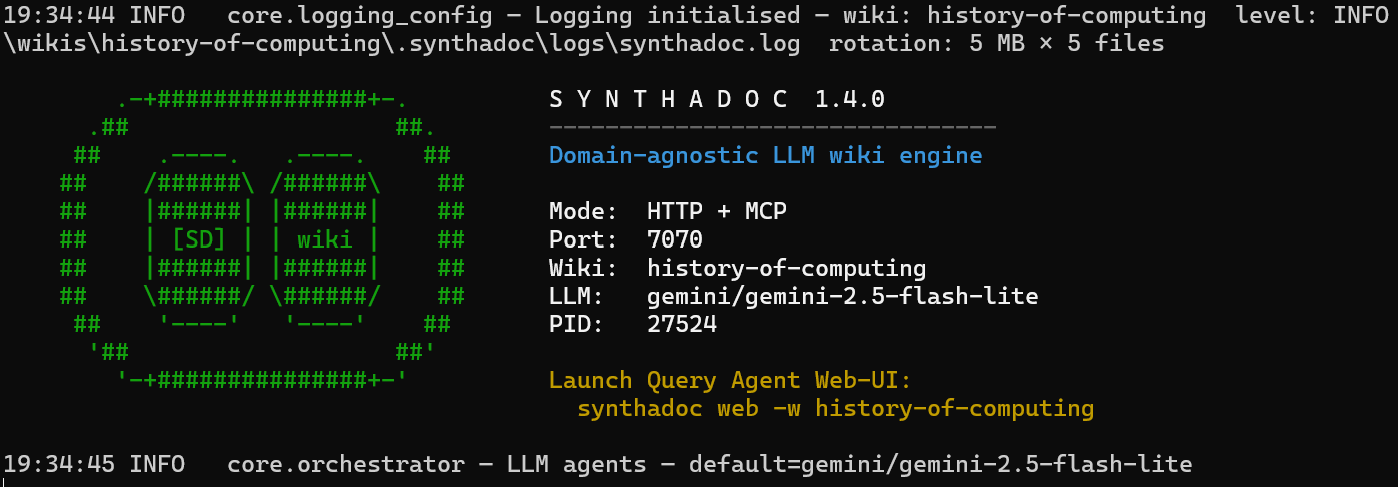
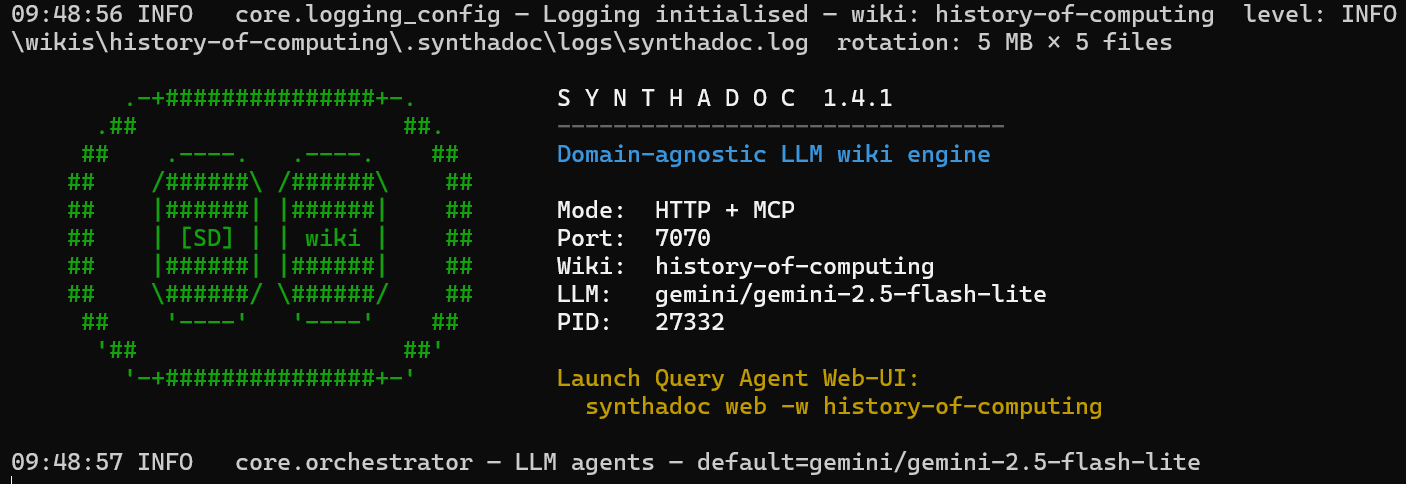
[v1.4.1] release prep (#454)
* [v1.4.1] release prep

Bump version to 1.4.1. Add Appendix A entries for v1.4.0 and v1.4.1
in design.md. Sync Obsidian plugin manifest and PyPI readme.

* update synthadoc-serve.png

diff --git a/docs/design.md b/docs/design.md
@@ -1,6 +1,6 @@
 # Synthadoc — Design Document
 
-**Version:** 1.4.0
+**Version:** 1.4.1
 **Audience:** Product users who want to understand how the system works; developers adding features, skills, and plugins.
 
 **Document owners:** Paul Chen, William Johnason
@@ -4418,6 +4418,29 @@ The coordinator's own `_wiki_epoch` is passed to `CacheManager.set_query` for th
 ---
 
 ## Appendix A — Release Feature Index
+
+### v1.4.1
+
+- **DeepSeek thinking config fix** — two provider bugs corrected: (1) `_build_extra_body()` was routing DeepSeek through the Qwen branch, sending `{enable_thinking: false}` which DeepSeek's API ignores; DeepSeek now uses `{thinking: {type: disabled}}` like all non-Qwen providers. (2) When a reasoning model returns content that is entirely `<think>...</think>` blocks, the previous code silently used raw `reasoning_content` as the wiki page body, writing chain-of-thought text into the knowledge base; for the DeepSeek provider this now raises `ValueError` so the ingest job fails visibly rather than storing junk. MiniMax's legitimate reasoning-as-answer path (where the prose answer is intentionally in the reasoning side-channel) is unaffected — the guard is scoped to `provider == "deepseek"` only.
+- **Cross-wiki peer base URL** — peer URLs in the cross-wiki coordinator hardcoded `127.0.0.1`, silently treating any remote peer as unreachable. Fixed to read an optional `host` field from the registry entry (`wikis.json`); entries without `host` continue to use loopback. A `LOOPBACK_HOST` constant introduced in `_wiki.py` consolidates all six client-side URL constructors so future changes apply in one place.
+- **Cross-wiki no_cache parameter** — the `no_cache` cache-bypass flag was accepted by the CLI but not forwarded through the stream endpoint or WebUI, so cache bypass had no effect for cross-wiki queries. The flag is now threaded through `GET /cross-wiki/query/stream` and the React `useQueryStream` hook.
+- **Real wiki names in wikis_querying SSE event** — the `wikis_querying` server-sent event was emitting placeholder identifiers instead of the registered display names of the wikis being queried; it now emits the actual names as registered in the routing table.
+- **MissingApiKeyError for missing provider API keys** — a missing API key previously called `cli_error()` which raises `typer.Exit(1)`; when raised inside a background job worker, `str(typer.Exit(1)) == "1"` produced the unhelpful "Lint dead: 1" message in the Obsidian UI. Replaced with `MissingApiKeyError(RuntimeError)` carrying the env-var name, provider name, and signup URL. The orchestrator treats `MissingApiKeyError` as a permanent failure (no retries — retrying a missing key never helps); direct HTTP endpoints return HTTP 401.
+- **OKF v0.2 type mapping** — the hardcoded `"concept"` fallback for all page types replaced with a proper `_OKF_TYPE_MAP`: `concept` / `event` → `article`; `person` / `organization` / `technology` / `location` / `product` → `reference`; unknown types fall back to `article`.
+- **Cross-wiki merge sort defensive access** — `_merge_results` raised `KeyError` when a peer wiki response omitted the `score` field (older peer versions or test stubs). Changed to `.get("score", 0)` so such results sort to the end rather than crashing the entire cross-wiki query.
+- **Hook subprocess race condition** — test polling loops waited for output file existence but not for non-empty content; on Windows the subprocess creates the file on `open(..., "w")` before writing, causing a `JSONDecodeError` on an empty file. Polling now checks `st_size > 0` in addition to existence.
+- **MiniMax pricing table updated** — model pricing table refreshed; `MiniMax-M2.7` entry replaced with `MiniMax-M3` as the current recommended MiniMax model.
+
+### v1.4.0
+
+- **OKF v0.2 Export** — `synthadoc export --format okf` produces a distributable bundle: one Markdown file per wiki page with v0.2 YAML frontmatter (`generated.{by,at}`, `sources`, `verified`, `stale_after`, `synthadoc_lifecycle`); `index.md` manifest grouped by knowledge type; `log.md` plain-text changelog; wikilinks converted to relative paths. Active and contradicted pages exported by default; drafts, stale, and archived excluded. Lifecycle states map to OKF status: `active` → `stable`, `contradicted`/`draft` → `draft`, `stale`/`archived` → `deprecated`. Any OKF-aware tool can consume the bundle without running Synthadoc.
+- **Cross-Wiki Queries** — `synthadoc query --cross-wiki` distributes a single question across all registered running wikis in parallel, synthesizes a unified answer, and qualifies citations as `[[wiki-name::PageTitle]]`. The coordinator wiki picks relevant peers via LLM routing against each wiki's `purpose.md`; results are merged with source-prefix normalization before synthesis. Configurable via an optional routing table (`synthadoc cross-wiki routing init`). Per-peer epoch cache for independent cache invalidation; CJK fan-out translation for cross-language retrieval; workflow lint enforcement for routing validation. Recent cross-wiki runs persist in the web UI history. See [§40 Cross-Wiki Queries](#40-cross-wiki-queries-v140).
+- **MiniMax-M3 compatibility** — corrected non-standard response envelope parsing that caused silent failures with MiniMax-M3.
+- **Orphan resolver robustness** — gracefully skips stale references when pages are deleted between list generation and execution, preventing mid-workflow crashes.
+- **Workflow status chips** — intermediate states (`confirming`, `ingesting`, `linting`) now reflected in real time in the web UI chip rather than staying blank until completion.
+- **Server shutdown noise** — `synthadoc stop --all` no longer logs a `Task exception was never retrieved` stack trace; shutdown uses `server.should_exit = True` via a deferred async task instead of `raise SystemExit(0)` inside a running coroutine.
+- **Status port fallback** — `synthadoc status --all` now scans well-known ports when the PID file is absent, recovering status for servers started outside the normal flow.
+- **Stale-slug regex tightened** — `_STALE_SLUG_RE` now requires a mandatory list marker (`- `) to prevent false-positive stale-page suggestions on prose that happens to match the slug pattern.
 
 ### v1.3.5
 

diff --git a/README-pypi.md b/README-pypi.md
@@ -14,7 +14,7 @@
       '-+###############+-'
 
        S Y N T H A D O C
-    Community Edition  v1.4.0
+    Community Edition  v1.4.1
   ────────────────────────────────
   Domain-agnostic LLM wiki engine
 ```
@@ -31,10 +31,10 @@
 <a href="https://github.com/axoviq-ai/synthadoc"><img src="https://img.shields.io/badge/dynamic/json?url=https%3A%2F%2Fraw.githubusercontent.com%2Faxoviq-ai%2Fsynthadoc%2Fbadges%2Fdocs%2Fbadges.json&query=%24.cli_commands&label=CLI%20commands&color=darkblue" alt="CLI commands"/></a>
 <a href="https://github.com/axoviq-ai/synthadoc/tree/main/obsidian-plugin"><img src="https://img.shields.io/badge/dynamic/json?url=https%3A%2F%2Fraw.githubusercontent.com%2Faxoviq-ai%2Fsynthadoc%2Fbadges%2Fdocs%2Fbadges.json&query=%24.obsidian_commands&label=Obsidian%20commands&color=blueviolet" alt="Obsidian commands"/></a>
 <a href="https://github.com/axoviq-ai/synthadoc/blob/main/docs/user-quick-start-guide.md#agentic-workflows"><img src="https://img.shields.io/badge/dynamic/json?url=https%3A%2F%2Fraw.githubusercontent.com%2Faxoviq-ai%2Fsynthadoc%2Fbadges%2Fdocs%2Fbadges.json&query=%24.maintenance_workflows&label=Maintenance%20workflows&color=green" alt="Maintenance workflows"/></a>
-<a href="https://github.com/axoviq-ai/synthadoc"><img src="https://img.shields.io/badge/Community%20Edition-v1.4.0-brightgreen.svg" alt="Version"/></a>
+<a href="https://github.com/axoviq-ai/synthadoc"><img src="https://img.shields.io/badge/Community%20Edition-v1.4.1-brightgreen.svg" alt="Version"/></a>
 </p>
 
-**Document version: v1.4.0**
+**Document version: v1.4.1**
 
 **Engineered for solo users and enterprises alike, providing a domain-specific knowledge base that scales seamlessly while maintaining accuracy through autonomous self-optimization.**
 

diff --git a/README.md b/README.md
@@ -14,7 +14,7 @@
       '-+###############+-'
 
        S Y N T H A D O C
-    Community Edition  v1.4.0
+    Community Edition  v1.4.1
   ────────────────────────────────
   Domain-agnostic LLM wiki engine
 ```
@@ -31,10 +31,10 @@
 <a href="https://github.com/axoviq-ai/synthadoc"><img src="https://img.shields.io/badge/dynamic/json?url=https%3A%2F%2Fraw.githubusercontent.com%2Faxoviq-ai%2Fsynthadoc%2Fbadges%2Fdocs%2Fbadges.json&query=%24.cli_commands&label=CLI%20commands&color=darkblue" alt="CLI commands"/></a>
 <a href="https://github.com/axoviq-ai/synthadoc/tree/main/obsidian-plugin"><img src="https://img.shields.io/badge/dynamic/json?url=https%3A%2F%2Fraw.githubusercontent.com%2Faxoviq-ai%2Fsynthadoc%2Fbadges%2Fdocs%2Fbadges.json&query=%24.obsidian_commands&label=Obsidian%20commands&color=blueviolet" alt="Obsidian commands"/></a>
 <a href="https://github.com/axoviq-ai/synthadoc/blob/main/docs/user-quick-start-guide.md#agentic-workflows"><img src="https://img.shields.io/badge/dynamic/json?url=https%3A%2F%2Fraw.githubusercontent.com%2Faxoviq-ai%2Fsynthadoc%2Fbadges%2Fdocs%2Fbadges.json&query=%24.maintenance_workflows&label=Maintenance%20workflows&color=green" alt="Maintenance workflows"/></a>
-<a href="https://github.com/axoviq-ai/synthadoc"><img src="https://img.shields.io/badge/Community%20Edition-v1.4.0-brightgreen.svg" alt="Version"/></a>
+<a href="https://github.com/axoviq-ai/synthadoc"><img src="https://img.shields.io/badge/Community%20Edition-v1.4.1-brightgreen.svg" alt="Version"/></a>
 </p>
 
-**Document version: v1.4.0**
+**Document version: v1.4.1**
 
 **Engineered for solo users and enterprises alike, providing a domain-specific knowledge base that scales seamlessly while maintaining accuracy through autonomous self-optimization.**
 

diff --git a/docs/user-quick-start-guide.md b/docs/user-quick-start-guide.md
@@ -1,6 +1,6 @@
 # Synthadoc User Quick-Start Guide
 
-**Version: v1.4.0 (Community Edition)**
+**Version: v1.4.1 (Community Edition)**
 
 This guide walks you through the **History of Computing** demo wiki — a fully wired
 Synthadoc environment with 13 pre-built pages and six raw source files that cover every
